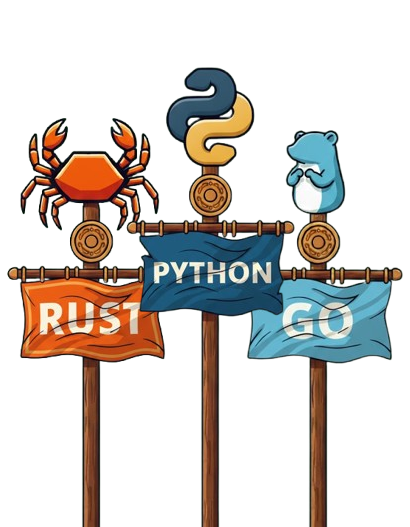
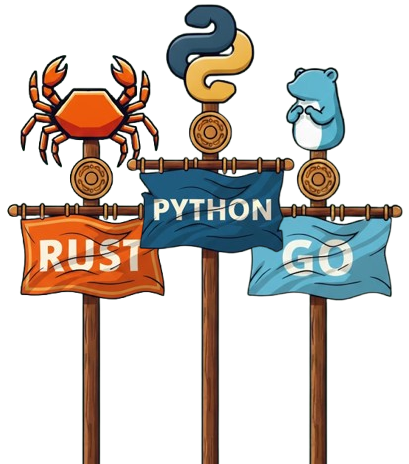
updated resolution

diff --git a/README.md b/README.md
@@ -1,3 +1,3 @@
 <p float="left" align="center">
-  <img src="img/github_bg.png" alt="Languages"/> 
+  <img src="img/github_bg.png" width=300 alt="Languages"/> 
 </p>
